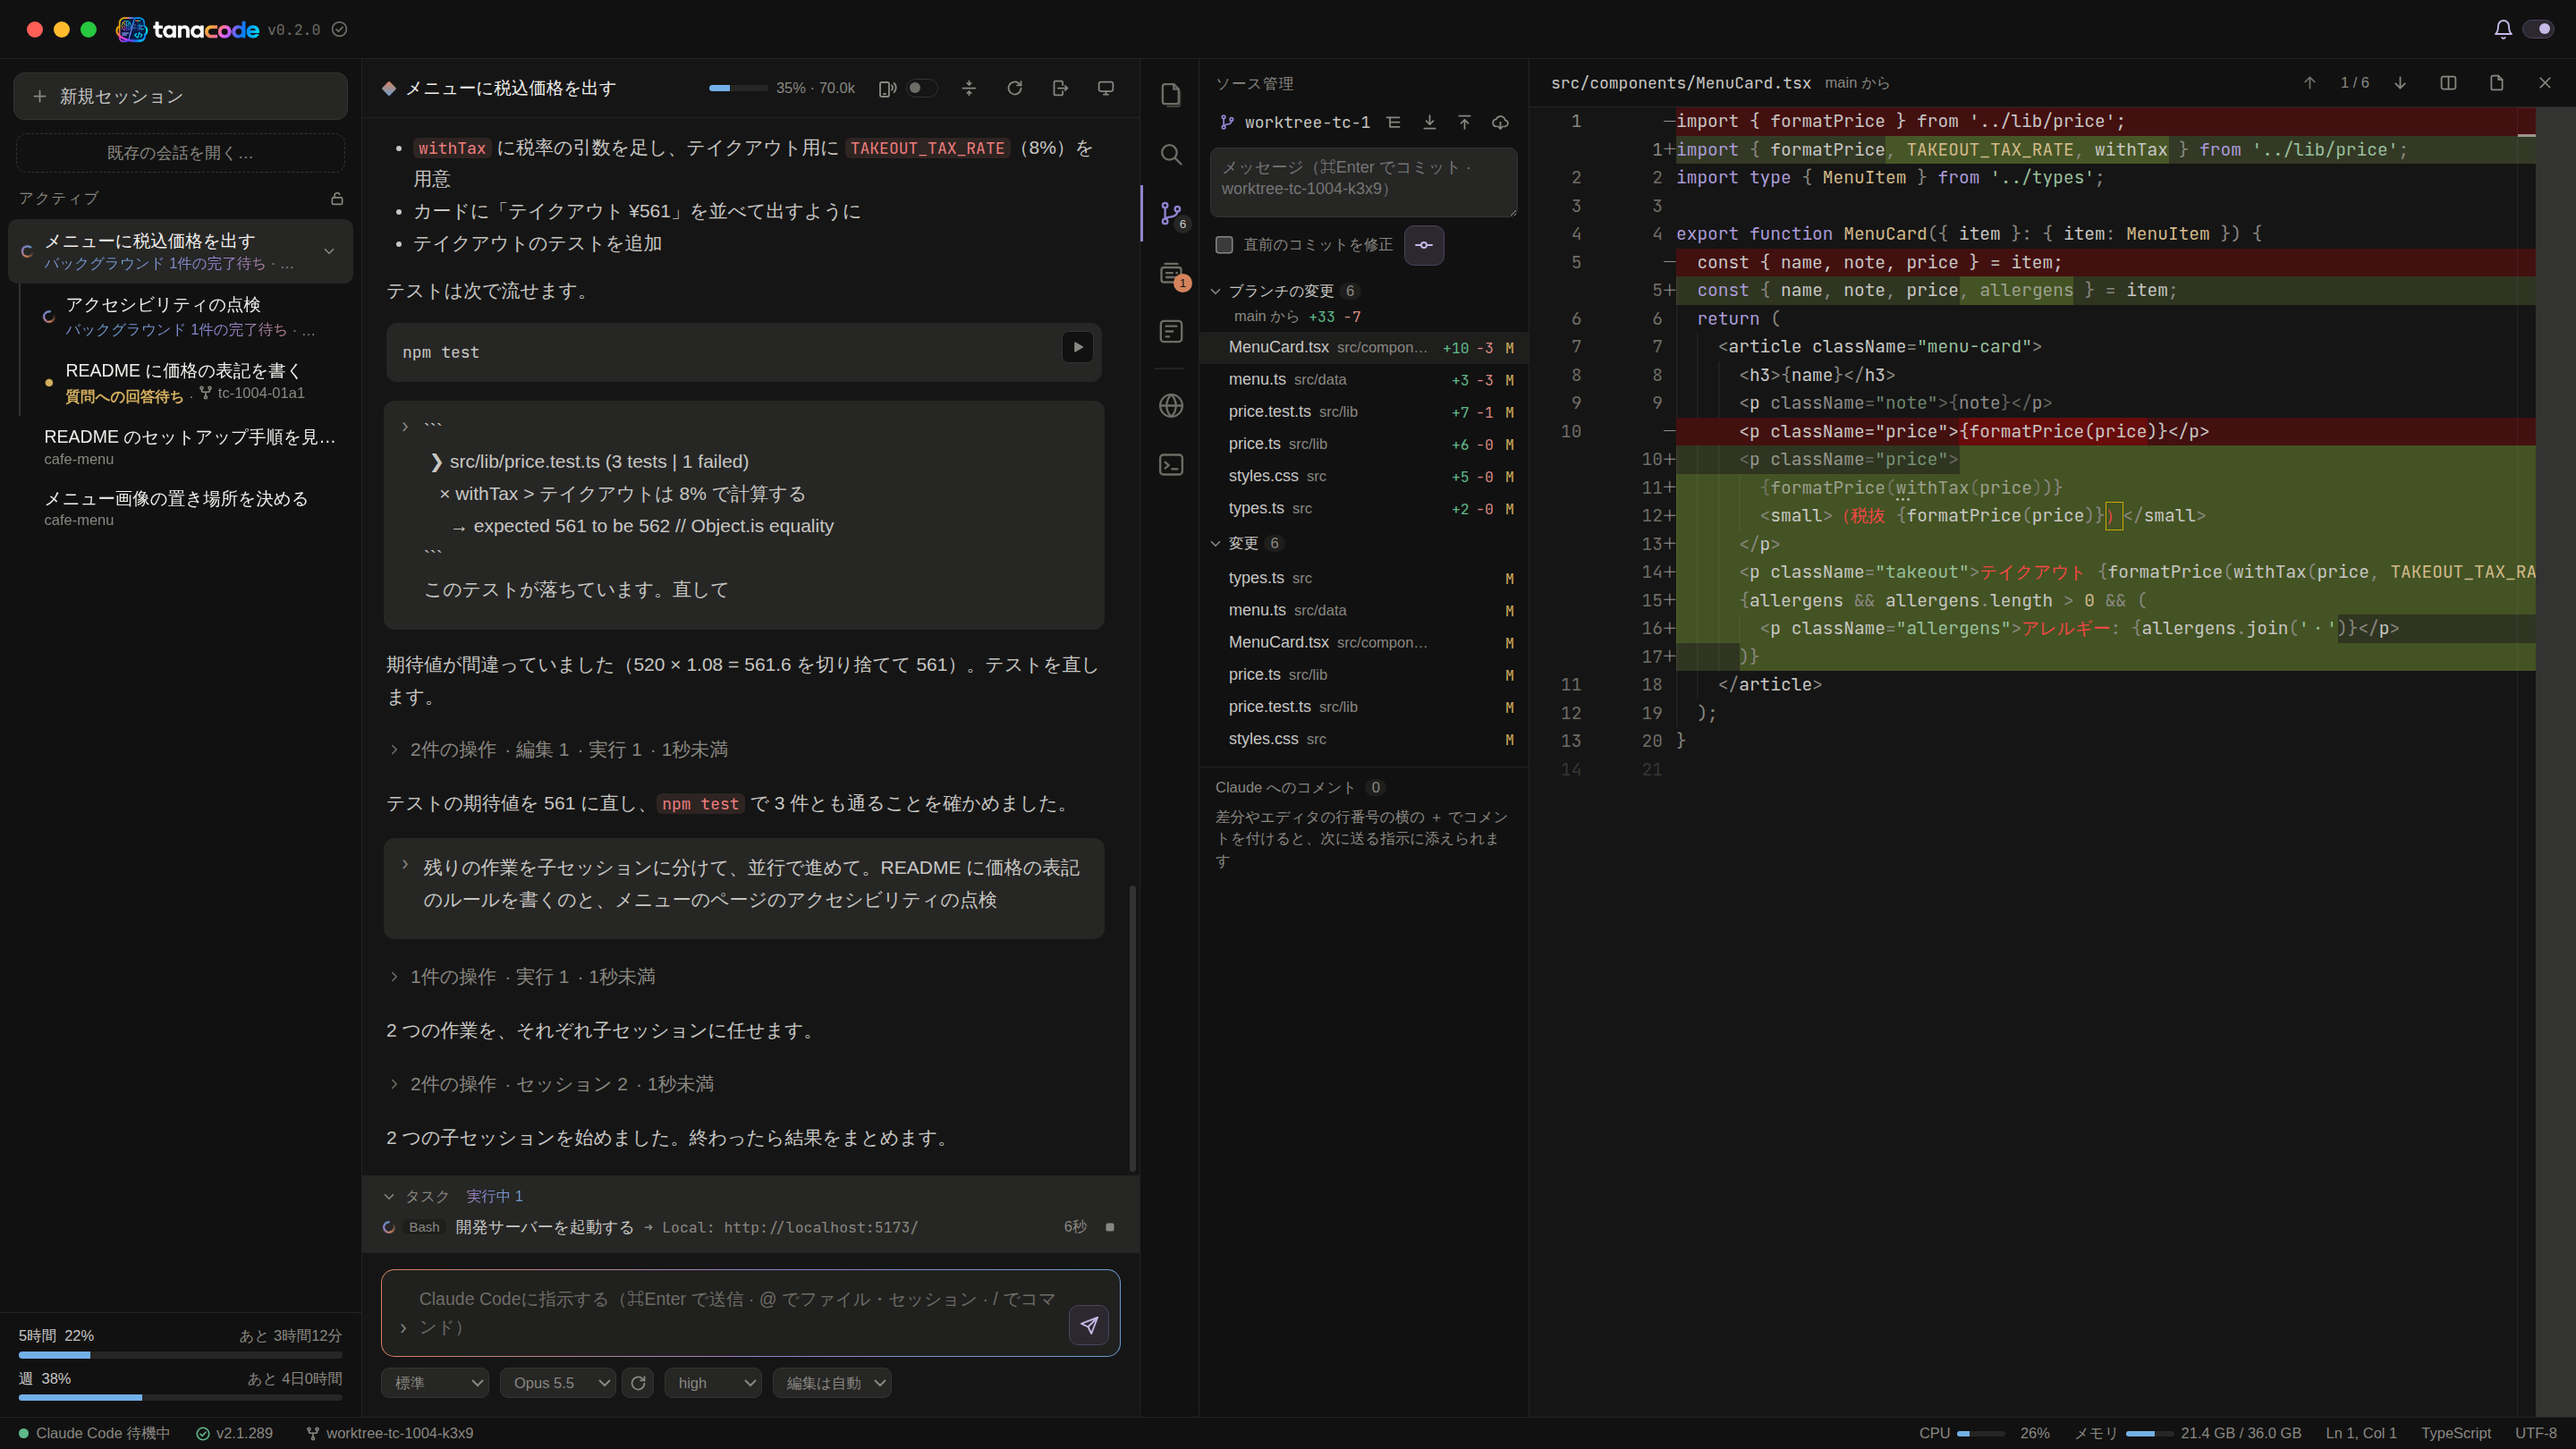
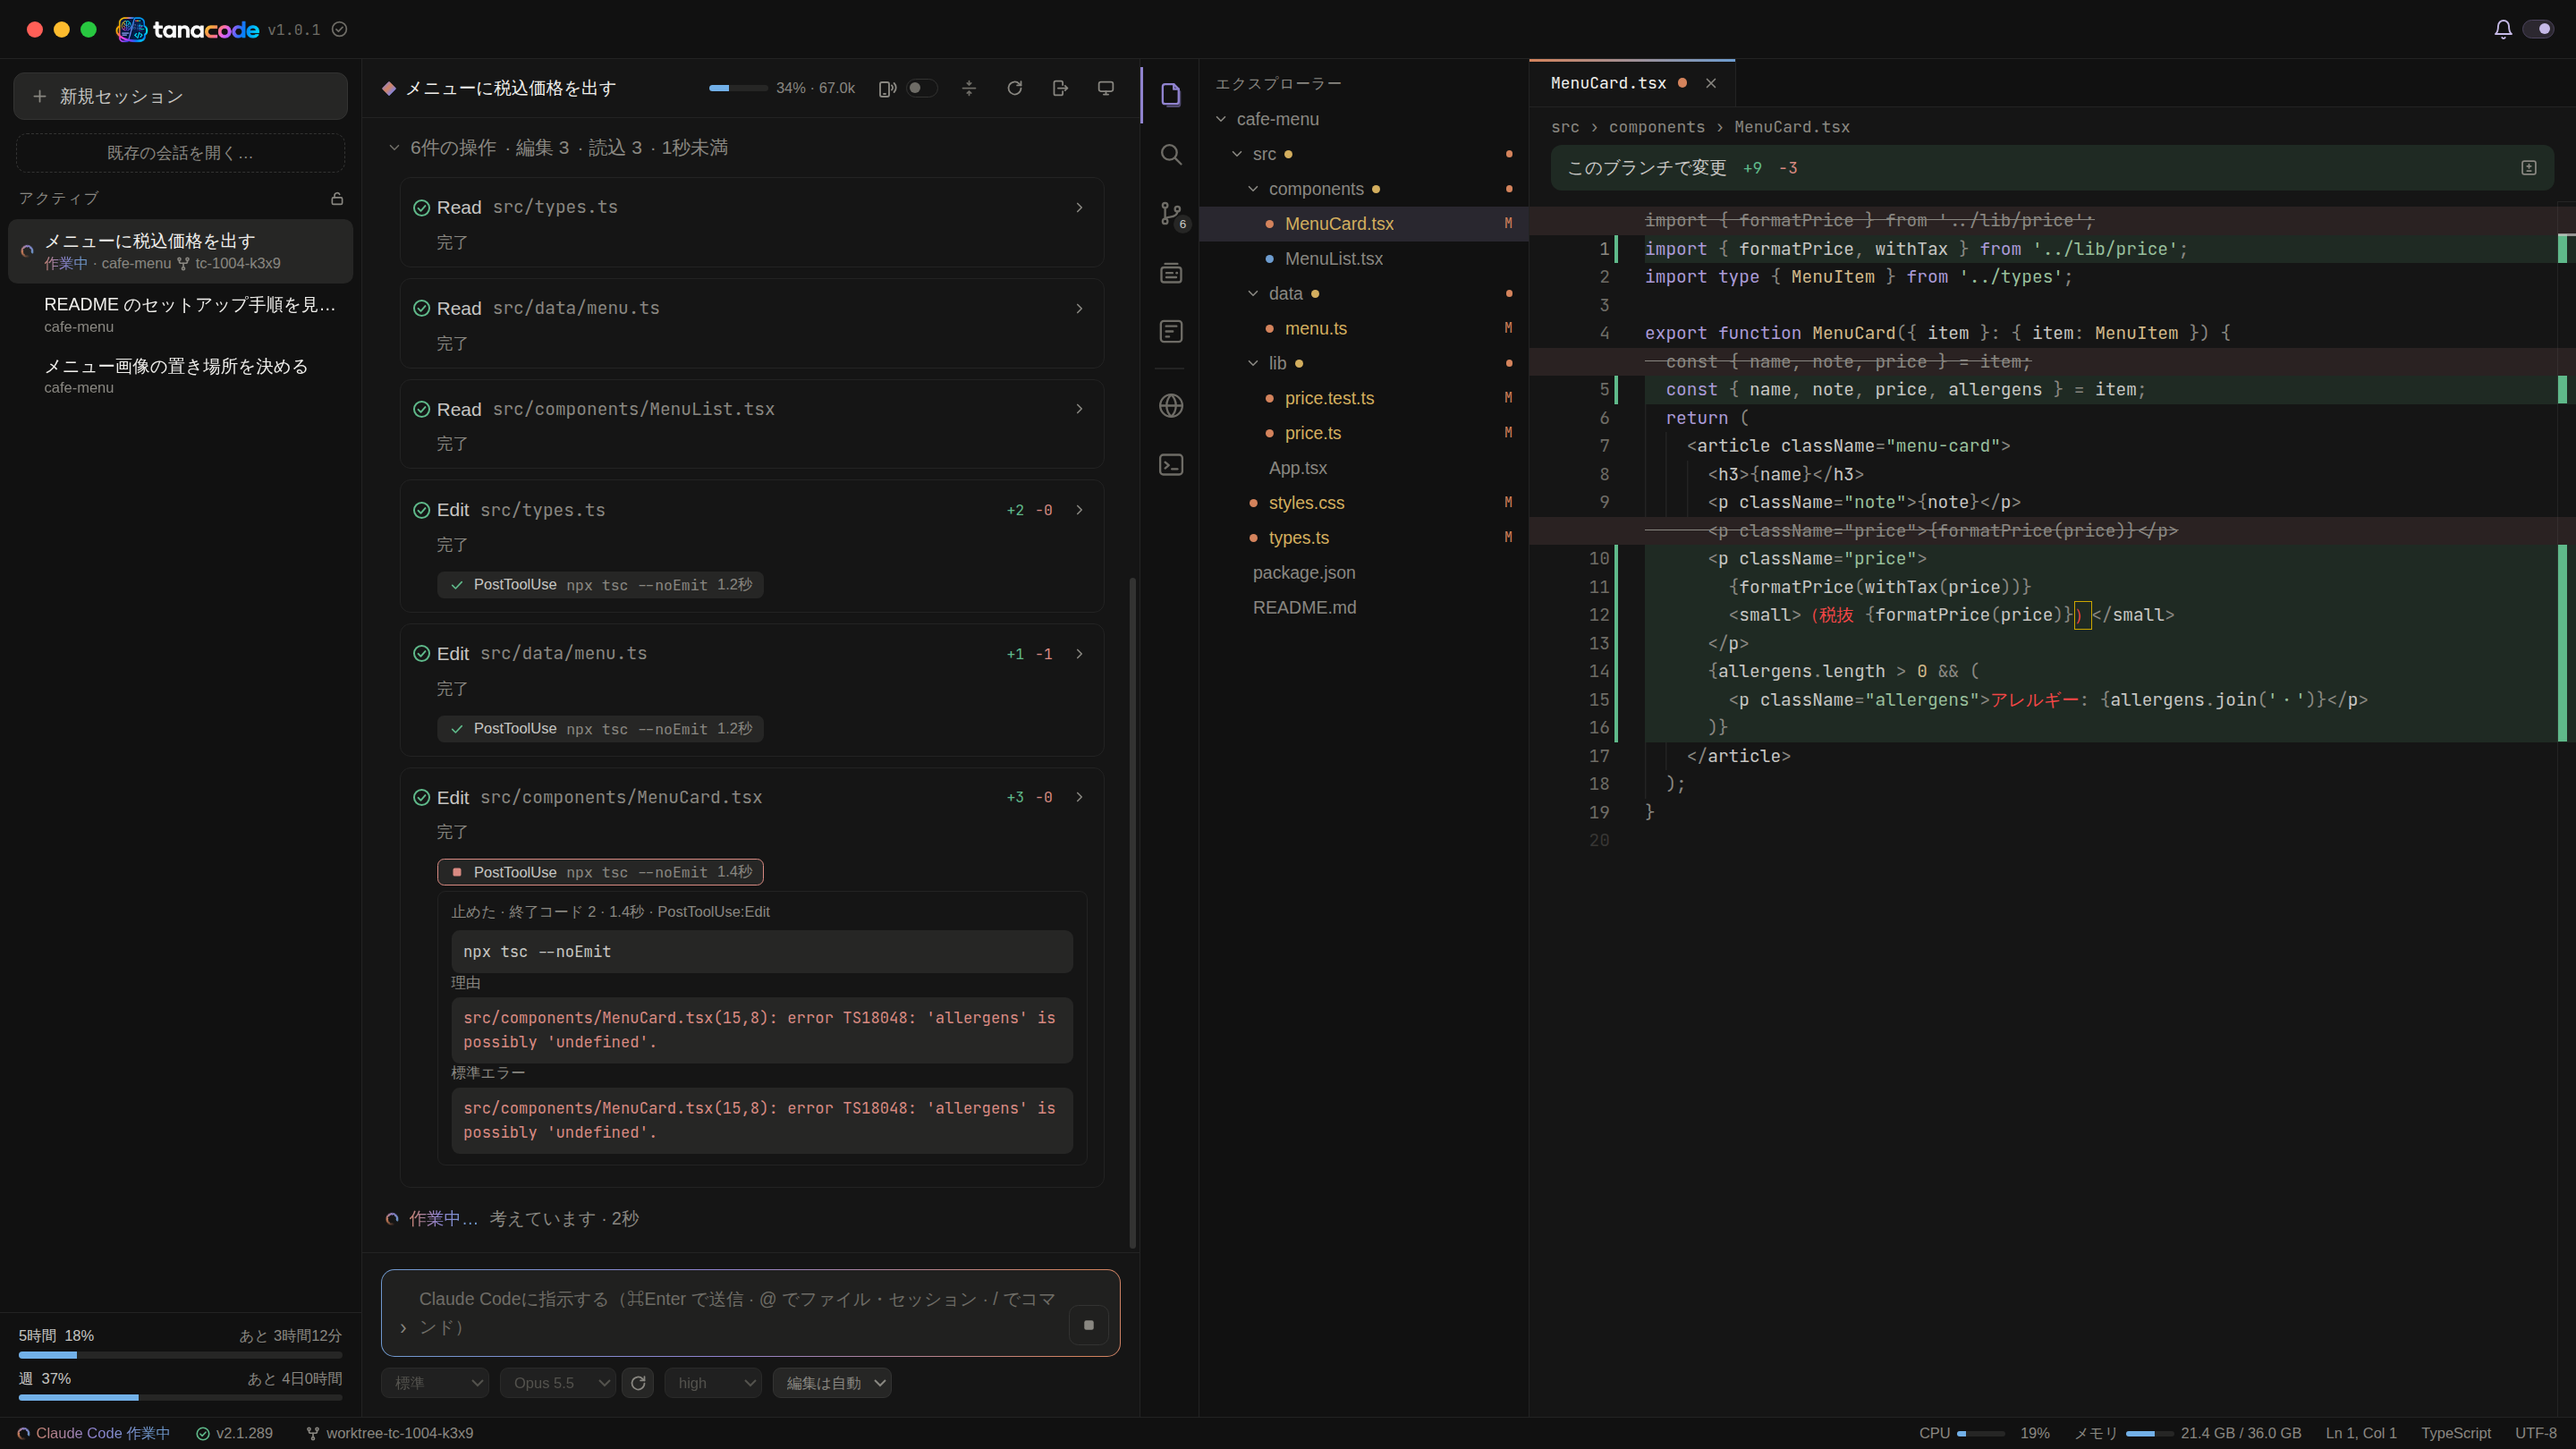
docs: README の売り文句を「Claude Code の中身が、奥まで見える」に絞り、紹介画像を撮り直す (#87)

diff --git a/src/renderer/src/demo/site/index.html b/src/renderer/src/demo/site/index.html
@@ -3,8 +3,20 @@
   <head>
     <meta charset="UTF-8" />
     <meta name="viewport" content="width=device-width, initial-scale=1" />
-    <title>tanacode デモ</title>
-    <meta name="description" content="Claude Code と IDE をひとつにした macOS アプリ tanacode の機能を、ブラウザで試せるデモ。本物の Claude には繋がりません。" />
+    <title>tanacode のデモ｜Claude Code の中身が、奥まで見える macOS アプリ</title>
+    <meta name="description" content="読んだファイルと覚えているもの、サブエージェントが呼んだツール、ブラウザで確かめた画面まで。Claude Code の中身が見える macOS アプリ tanacode（非公式）を、ブラウザで試せるデモ。本物の Claude には繋がりません。" />
+    <!-- X・はてなブックマーク・Slack などで共有したときの表示。画像は README の紹介画像（develop の design/screenshot.png） -->
+    <meta property="og:type" content="website" />
+    <meta property="og:site_name" content="tanacode" />
+    <meta property="og:title" content="tanacode｜Claude Code の中身が、奥まで見える macOS アプリ" />
+    <meta property="og:description" content="読んだファイルと覚えているもの、サブエージェントが呼んだツール、ブラウザで確かめた画面まで。インストールせずに、ブラウザで試せるデモ。" />
+    <meta property="og:url" content="https://sny-tanaka.github.io/tanacode/" />
+    <meta property="og:image" content="https://raw.githubusercontent.com/sny-tanaka/tanacode/develop/design/screenshot.png" />
+    <meta property="og:image:width" content="2880" />
+    <meta property="og:image:height" content="1620" />
+    <meta property="og:image:alt" content="tanacode の画面。エクスプローラーで Claude が読んだファイルに青、書いたファイルに橙の点が付き、チャットに hooks が編集を止めた理由が並ぶ様子" />
+    <meta property="og:locale" content="ja_JP" />
+    <meta name="twitter:card" content="summary_large_image" />
     <link rel="icon" type="image/png" href="../../assets/icon.png" />
   </head>
   <body>

diff --git a/src/renderer/src/demo/story/chapters/knowledge.ts b/src/renderer/src/demo/story/chapters/knowledge.ts
@@ -50,7 +50,8 @@ export async function runKnowledge(story: Story): Promise<void> {
   await sleep(1000);
   for (const [path, tokens] of [
     ['src/types.ts', 52_000],
-    ['src/data/menu.ts', 57_000],
+    ['src/data/menu.ts', 56_000],
+    ['src/components/MenuList.tsx', 58_000],
   ] as const) {
     await claude.tool('Read', path, 600, { filePath: `${ROOT}/${path}` });
     backend.know(id, { [path]: 'read' });
@@ -88,6 +89,8 @@ export async function runKnowledge(story: Story): Promise<void> {
   await d.click('.hook-run.blocked .hook-chip', { ms: 700 });
   await sleep(200);
   story.toBottom();
+  // README の紹介画像は、この場面（エクスプローラーの読んだ・書いたファイルの点、コンテキストのメーター、hooks が止めた理由）
+  await story.mark('showcase');
   await sleep(2200);
   await d.click(() => [...document.querySelectorAll('.tool-group-head')].at(-1), { ms: 700 });
   story.toBottom();

diff --git a/src/renderer/src/demo/story/showcase.ts b/src/renderer/src/demo/story/showcase.ts
@@ -2,7 +2,7 @@ import { Director, setFastForward } from '../director';
 import { CHAPTERS } from './chapters';
 import type { Story } from './story';
 
-// README の紹介画像の場面を作る。ツアーを早送りで流し、台本の目印 'showcase'（章 6 の、子セッションが並行して動いている場面）で止める。
+// README の紹介画像の場面を作る。ツアーを早送りで流し、台本の目印 'showcase'（章 3 の、Claude が読んだ・書いたファイルと hooks が止めた理由が見える場面）で止める。
 // 止めたあとは台本を先へ進めない（目印の待ちを解かない）。作り物のカーソルは消し、早送りも戻して、画面の動き（ぐるぐるなど）はふつうに描く
 export function runShowcase(story: Story): Promise<void> {
   const d = new Director();

diff --git a/src/renderer/src/demo/Showcase.stories.tsx b/src/renderer/src/demo/Showcase.stories.tsx
@@ -5,7 +5,7 @@ import './site/app.css';
 import { runShowcase } from './story/showcase';
 import { prepareStory } from './story/story';
 
-// README の紹介画像（design/screenshot.png）。デモのサイトのツアーを、画面の要素がいちばん多い場面まで早送りで流して止める。
+// README の紹介画像（design/screenshot.png）。デモのサイトのツアーを、Claude が読んだ・書いたファイルと hooks が止めた理由が見える場面（章 3）まで早送りで流して止める。
 // scripts/capture-screenshot.mjs（npm run screenshot）が、この画面を 1920×1080（デモのサイトと同じ）の 1.5 倍で撮る。場面ができると window.__showcaseReady が true になる
 
 declare global {

diff --git a/src/renderer/src/demo/story/chapters/parallel.ts b/src/renderer/src/demo/story/chapters/parallel.ts
@@ -137,8 +137,6 @@ export async function runParallel(story: Story): Promise<void> {
   backend.push(A11Y_CHILD, { type: 'tool-result', id: WORKFLOW_TOOL, isError: false, output: 'ワークフロー a11y-audit をバックグラウンドで開始しました', at: Date.now() });
   a11y.stopWorking();
   backend.push(A11Y_CHILD, { type: 'turn-end' });
-  // README の紹介画像は、この場面（子が親の下で動き、親のトレイに開発サーバー、右にブランチの差分）
-  await story.mark('showcase');
   await d.moveTo(d.byText('.session-row', 'README に価格'), { ms: 900 });
   await sleep(1800);
 
